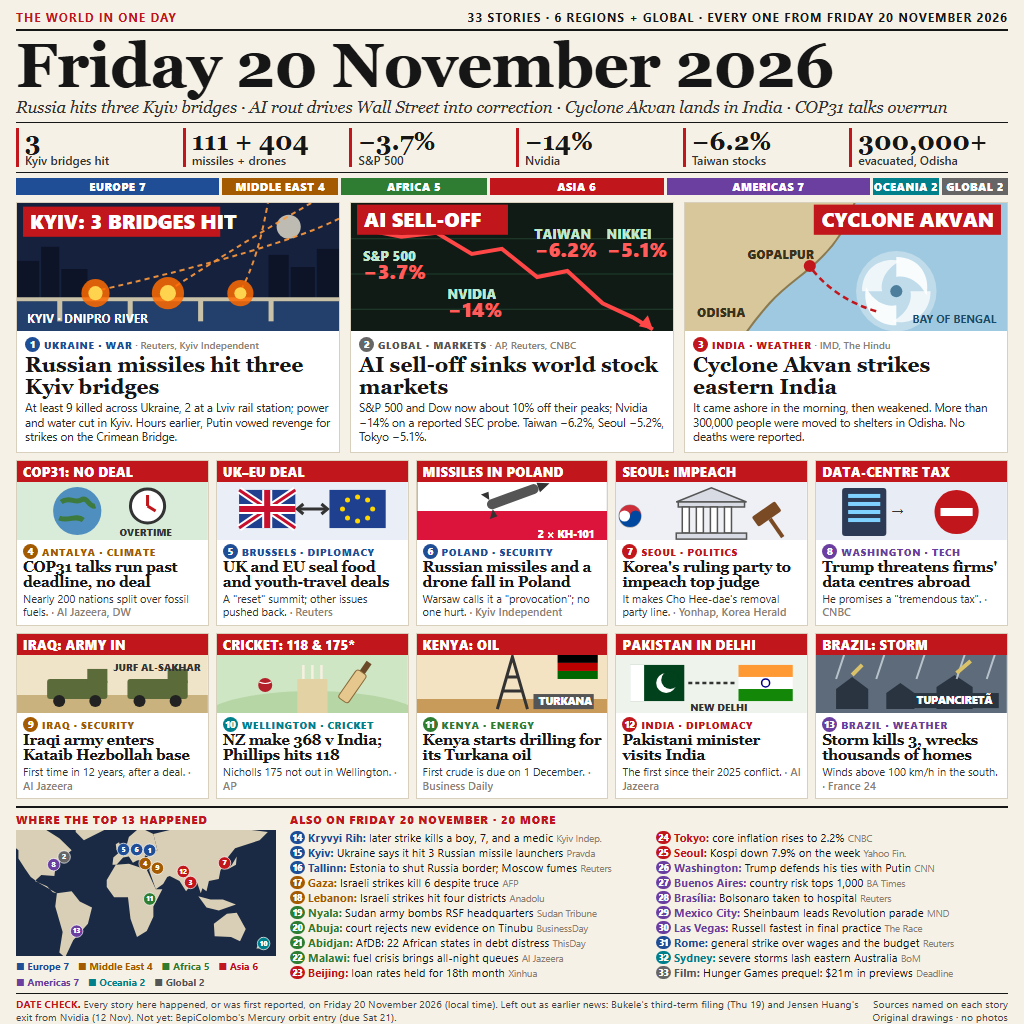
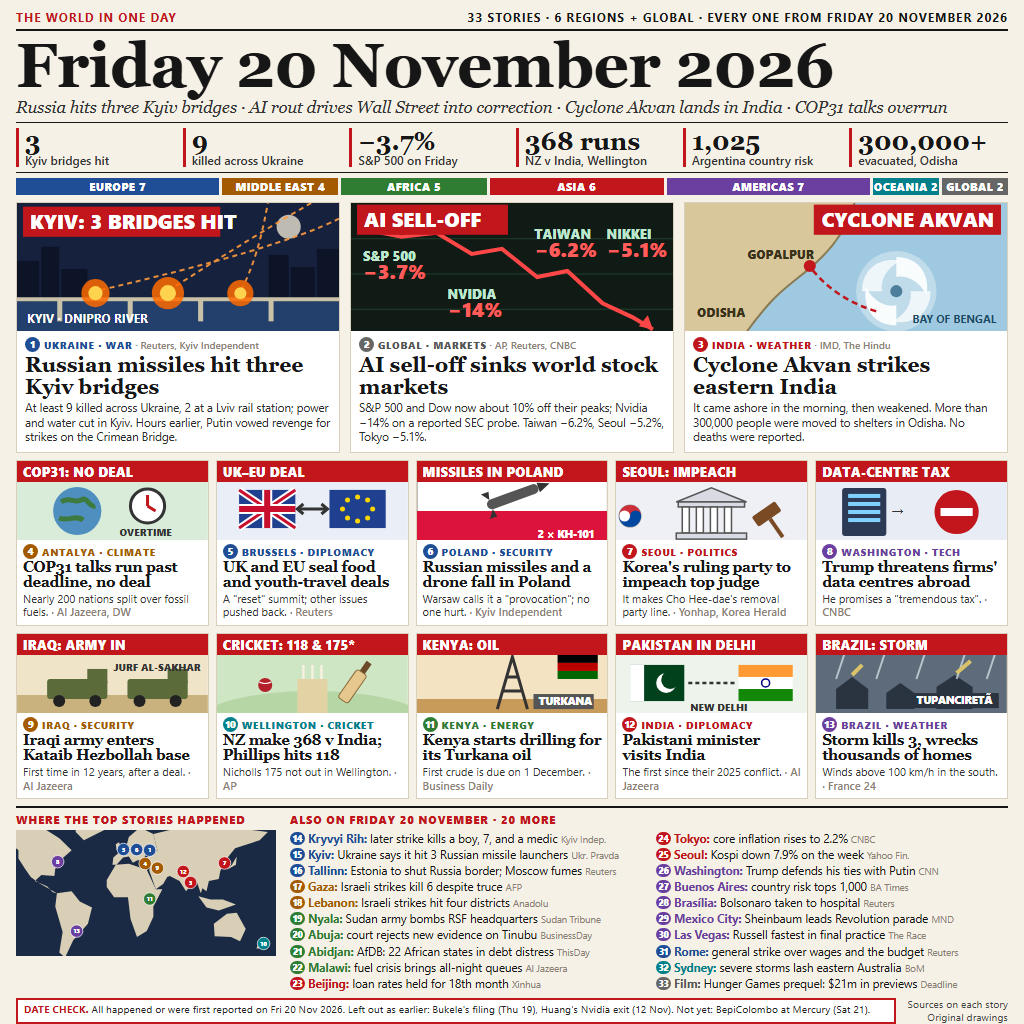
v5: diversified stats, prominent date check, cleaner map and footer

diff --git a/src/page.html b/src/page.html
@@ -24,8 +24,8 @@ h1{font-family:Georgia,serif;font-size:62px;line-height:.95;font-weight:900;lett
 .grid .txt{padding:4px 6px 6px}
 .grid h3{font-family:Georgia,serif;font-size:14.5px;line-height:1.06;margin-top:1px}
 .grid p{font-size:11px;line-height:1.2;color:#333;margin-top:2px}
-.foot{display:flex;justify-content:space-between;gap:12px;margin-top:4px;border-top:1px solid #161616;padding-top:4px;font-size:10.4px;color:#444;line-height:1.25}
-.foot .chk{flex:1}
+.foot{display:flex;justify-content:space-between;gap:12px;margin-top:7px;border-top:none;padding-top:0;font-size:10.4px;color:#444;line-height:1.25}
+.foot .chk{flex:1;border:2px solid #c0161c;padding:3px 6px;background:#fff;color:#222}
 .foot .chk b{color:#c0161c}
 .eu{color:#1f4e96}.as{color:#c0161c}.am{color:#6b3fa0}.af{color:#2f7d32}.me{color:#a35a00}.gl{color:#555}.oc{color:#00808a}
 .bot{display:grid;grid-template-columns:260px 1fr;gap:14px;margin-top:7px;border-top:2px solid #161616;padding-top:4px}
@@ -33,7 +33,7 @@ h1{font-family:Georgia,serif;font-size:62px;line-height:.95;font-weight:900;lett
 #map{width:260px;display:block}
 .leg{display:flex;flex-wrap:wrap;gap:2px 9px;font-size:10px;font-weight:700;margin-top:3px}
 .also ol{list-style:none;columns:2;column-gap:14px}
-.also li{font-size:11.4px;line-height:1.32;break-inside:avoid;white-space:nowrap;overflow:hidden;text-overflow:ellipsis}
+.also li{font-size:11.6px;line-height:1.38;break-inside:avoid;white-space:nowrap;overflow:hidden;text-overflow:ellipsis}
 .also li i{display:inline-block;width:15px;height:13px;border-radius:7px;color:#fff;font-style:normal;font-size:8.5px;font-weight:800;text-align:center;line-height:13px;margin-right:3px;vertical-align:1px}
 .also li .s{color:#8a8172;font-size:9.5px}
 .num{display:inline-block;min-width:15px;height:15px;border-radius:8px;color:#fff;font-size:9.5px;font-weight:800;text-align:center;line-height:15px;margin-right:4px;vertical-align:1px;font-style:normal;letter-spacing:0}
@@ -51,10 +51,10 @@ h1{font-family:Georgia,serif;font-size:62px;line-height:.95;font-weight:900;lett
 
 <div class="nums">
   <div><b>3</b>Kyiv bridges hit</div>
-  <div><b>111 + 404</b>missiles + drones</div>
-  <div><b>−3.7%</b>S&amp;P 500</div>
-  <div><b>−14%</b>Nvidia</div>
-  <div><b>−6.2%</b>Taiwan stocks</div>
+  <div><b>9</b>killed across Ukraine</div>
+  <div><b>−3.7%</b>S&amp;P 500 on Friday</div>
+  <div><b>368 runs</b>NZ v India, Wellington</div>
+  <div><b>1,025</b>Argentina country risk</div>
   <div><b>300,000+</b>evacuated, Odisha</div>
 </div>
 
@@ -144,9 +144,9 @@ h1{font-family:Georgia,serif;font-size:62px;line-height:.95;font-weight:900;lett
 
 <div class="bot">
   <div class="mapbox">
-    <div class="hd">Where the top 13 happened</div>
+    <div class="hd">Where the top stories happened</div>
     <svg id="map" viewBox="0 0 300 146" xmlns="http://www.w3.org/2000/svg"></svg>
-    <div class="leg" id="leg"></div>
+    
   </div>
   <div class="also">
     <div class="hd">Also on Friday 20 November · 26 more</div>
@@ -155,8 +155,8 @@ h1{font-family:Georgia,serif;font-size:62px;line-height:.95;font-weight:900;lett
 </div>
 
 <div class="foot">
-  <div class="chk"><b>DATE CHECK.</b> Every story here happened, or was first reported, on Friday 20 November 2026 (local time). Left out as earlier news: Bukele's third-term filing (Thu 19) and Jensen Huang's exit from Nvidia (12 Nov). Not yet: BepiColombo's Mercury orbit entry (due Sat 21).</div>
-  <div class="src">Sources named on each story<br>Original drawings · no photos</div>
+  <div class="chk"><b>DATE CHECK.</b> All happened or were first reported on Fri 20 Nov 2026. Left out as earlier: Bukele's filing (Thu 19), Huang's Nvidia exit (12 Nov). Not yet: BepiColombo at Mercury (Sat 21).</div>
+  <div class="src">Sources on each story<br>Original drawings</div>
 </div>
 <script>
 const R={eu:'#1f4e96',me:'#a35a00',af:'#2f7d32',as:'#c0161c',am:'#6b3fa0',oc:'#00808a',gl:'#666'};
@@ -177,7 +177,7 @@ const pins=[
 [1,30.5,50.4,'eu'],[2,-74,40.7,'gl'],[3,84.9,19.3,'as'],[4,30.7,36.9,'me'],[5,4.35,50.85,'eu'],[6,23.6,50.6,'eu'],[7,127.0,37.6,'as'],[8,-77,38.9,'am'],[9,44.2,32.9,'me'],[10,174.8,-41.3,'oc'],[11,35.6,2.4,'af'],[12,77.2,28.6,'as'],[13,-53.8,-29.1,'am']];
 const briefs=[
 ['eu','Kryvyi Rih','later strike kills a boy, 7, and a medic','Kyiv Indep.',33.4,47.9],
-['eu','Kyiv','Ukraine says it hit 3 Russian missile launchers','Pravda',30.5,50.4],
+['eu','Kyiv','Ukraine says it hit 3 Russian missile launchers','Ukr. Pravda',30.5,50.4],
 
 ['eu','Tallinn','Estonia to shut Russia border; Moscow fumes','Reuters',24.7,59.4],
 ['me','Gaza','Israeli strikes kill 6 despite truce','AFP',34.4,31.5],
@@ -200,17 +200,17 @@ const briefs=[
 ['gl','Film','Hunger Games prequel: $21m in previews','Deadline',null,null]];
 const m=document.getElementById('map');let h='<rect width="300" height="146" fill="#1b2a44"/>';
 for(const g of land)h+='<polygon points="'+g.map(p=>P(p[0],p[1]).join(',')).join(' ')+'" fill="#d9cfb6"/>';
-const all=pins;
+const all=pins.filter(p=>p[3]!=='gl');
 const pts=all.map(p=>{const [x,y]=P(p[1],p[2]);return {n:p[0],c:p[3],x0:+x,y0:+y,x:+x,y:+y,r:7.2};});
 for(let it=0;it<400;it++){for(let i=0;i<pts.length;i++)for(let j=i+1;j<pts.length;j++){const A=pts[i],B=pts[j];let dx=B.x-A.x,dy=B.y-A.y;let d=Math.hypot(dx,dy)||0.01;const m=A.r+B.r+0.8;if(d<m){const f=(m-d)/2;dx/=d;dy/=d;A.x-=dx*f;A.y-=dy*f;B.x+=dx*f;B.y+=dy*f;}}
 for(const p of pts){p.x+=(p.x0-p.x)*0.02;p.y+=(p.y0-p.y)*0.02;p.x=Math.max(p.r,Math.min(300-p.r,p.x));p.y=Math.max(p.r,Math.min(146-p.r,p.y));}}
 for(const p of pts)if(Math.hypot(p.x-p.x0,p.y-p.y0)>2)h+='<line x1="'+p.x0+'" y1="'+p.y0+'" x2="'+p.x.toFixed(1)+'" y2="'+p.y.toFixed(1)+'" stroke="#fff" stroke-width=".6" opacity=".8"/><circle cx="'+p.x0+'" cy="'+p.y0+'" r="1.2" fill="#fff"/>';
-for(const p of pts.slice().reverse()){h+='<circle cx="'+p.x.toFixed(1)+'" cy="'+p.y.toFixed(1)+'" r="'+p.r+'" fill="'+(R[p.c]||'#555')+'" stroke="#fff" stroke-width="0.8"/><text x="'+p.x.toFixed(1)+'" y="'+(p.y+2.7).toFixed(1)+'" font-size="'+8+'" font-family="Segoe UI,Arial" font-weight="800" fill="#fff" text-anchor="middle">'+p.n+'</text>';}
+for(const p of pts.slice().reverse()){h+='<circle cx="'+p.x.toFixed(1)+'" cy="'+p.y.toFixed(1)+'" r="'+p.r+'" fill="'+(R[p.c]||'#555')+'" stroke="#fff" stroke-width="0.8"/><text x="'+p.x.toFixed(1)+'" y="'+(p.y+(p.r>5?2.4:1.8)).toFixed(1)+'" font-size="'+(p.r>5?7:5.2)+'" font-family="Segoe UI,Arial" font-weight="800" fill="#fff" text-anchor="middle">'+p.n+'</text>';}
 m.innerHTML=h;
 const cnt={};for(const r of pins.map(p=>p[3]).concat(briefs.map(b=>b[0])))cnt[r]=(cnt[r]||0)+1;
 const nm={eu:'Europe',me:'Middle East',af:'Africa',as:'Asia',am:'Americas',oc:'Oceania',gl:'Global'};
 document.getElementById('regbar').innerHTML=Object.keys(nm).filter(k=>cnt[k]).map(k=>'<div style="flex:'+cnt[k]+';background:'+(R[k]||'#666')+'">'+nm[k]+' '+cnt[k]+'</div>').join('');
-document.getElementById('leg').innerHTML=Object.keys(nm).filter(k=>cnt[k]).map(k=>'<span class="'+k+'">■ '+nm[k]+' '+cnt[k]+'</span>').join('');
+void Object.keys(nm).filter(k=>cnt[k]).map(k=>'<span class="'+k+'">■ '+nm[k]+' '+cnt[k]+'</span>').join('');
 document.querySelector('.also .hd').textContent='Also on Friday 20 November · '+briefs.length+' more';
 document.querySelector('.top span:last-child').textContent=(13+briefs.length)+' stories · 6 regions + global · every one from Friday 20 November 2026';
 const cs=['Reuters, Kyiv Independent','AP, Reuters, CNBC','IMD, The Hindu','Al Jazeera, DW','Reuters','Kyiv Independent','Yonhap, Korea Herald','CNBC','Al Jazeera','AP','Business Daily','Al Jazeera','France 24'];
